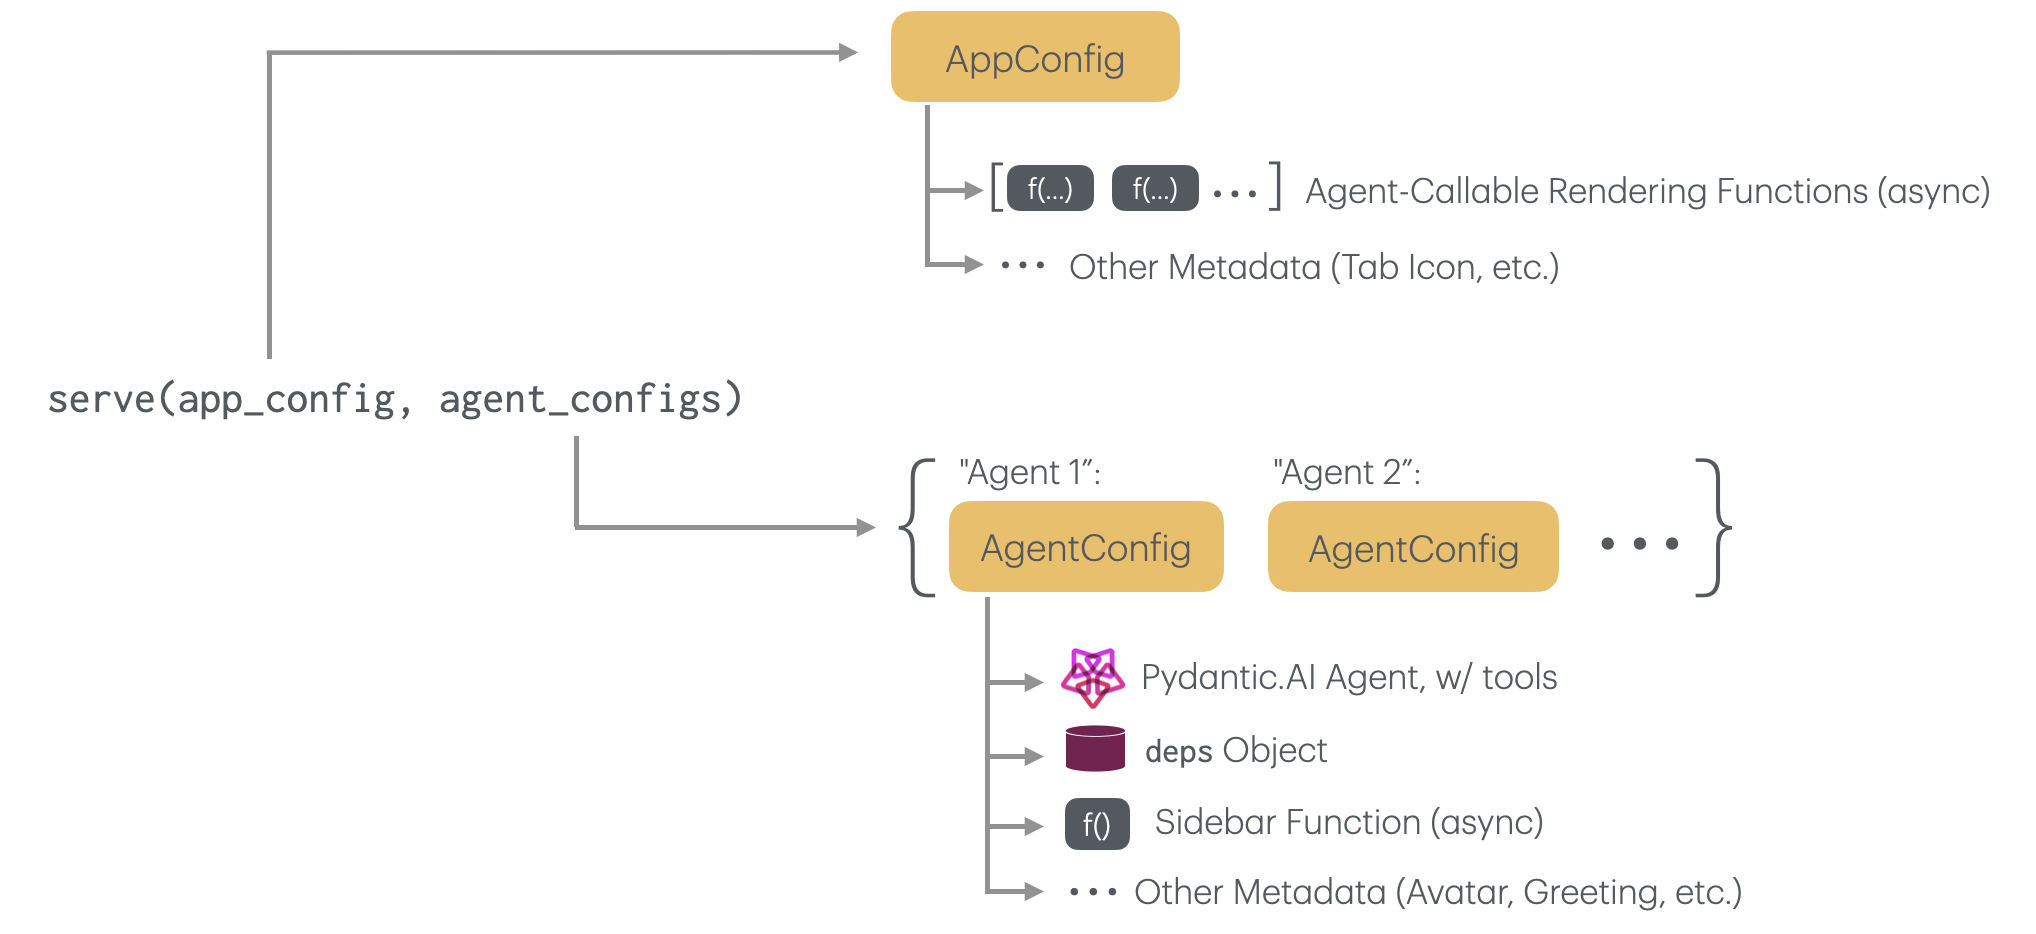
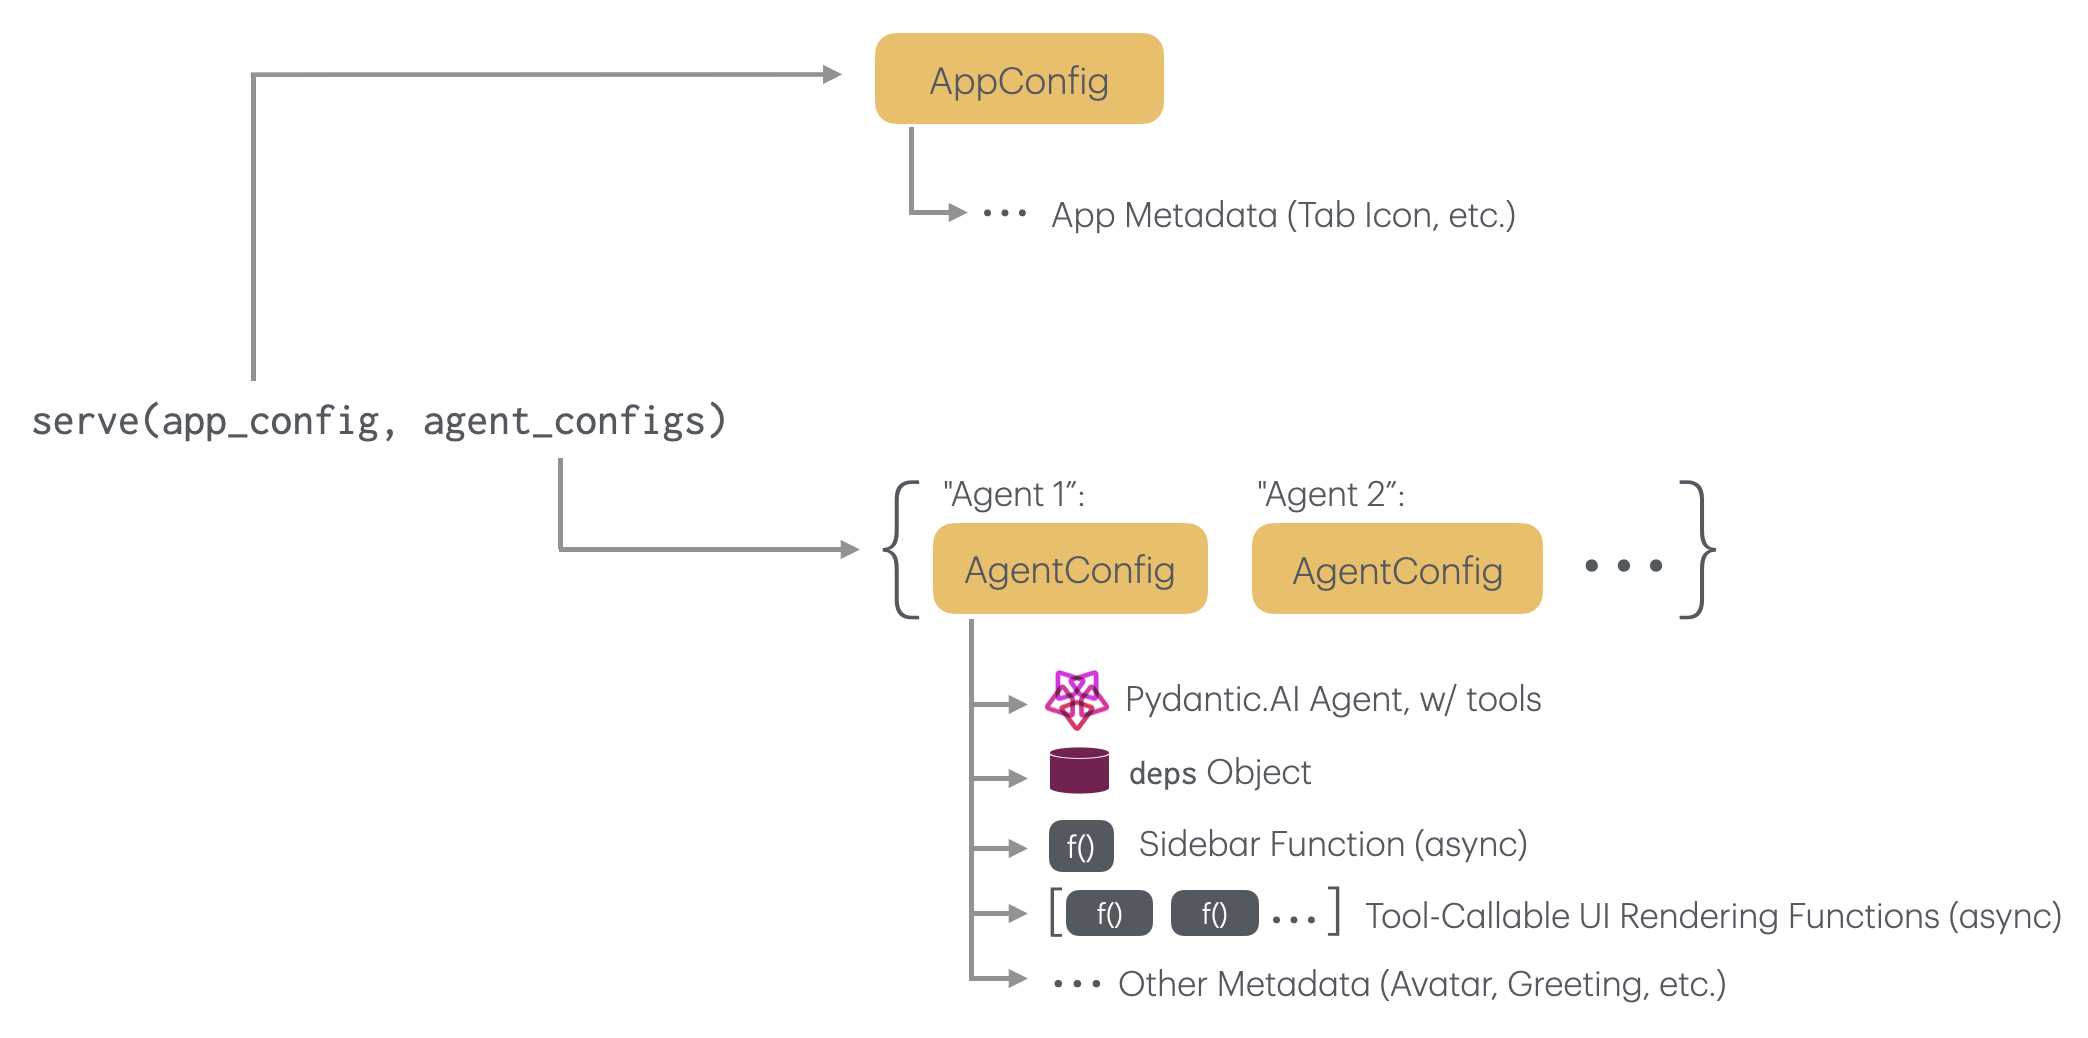
update arch figure

diff --git a/README.md b/README.md
@@ -51,12 +51,12 @@ pip install opaiui
 An opaiui application consists of:
 
 1. An `AppConfig`, specifying:
-   1. A set of Streamlit-based rendering functions, which an AI agent may execute to display widgets in the chat
    1. Other page metadata, such as tab title and icon
 1. A dictionary of `AgentConfig` objects, keyed by agent name, each specifying:
    1. A Pydantic.AI [agent](https://ai.pydantic.dev/agents/), with or without tools (including MCP)
    1. A `deps` object to use with the agent, as described by [Pydantic.AI](https://ai.pydantic.dev/dependencies/). The `deps`  may also be used to store and retrieve agent state across messages and components.
    1. A sidebar function for agent-specific sidebar rendering
+   1. A set of Streamlit-based rendering functions, which an AI agent may execute via tools to display widgets in the chat
    1. Other agent metadata, such as avatar and initial greeting
 
 
